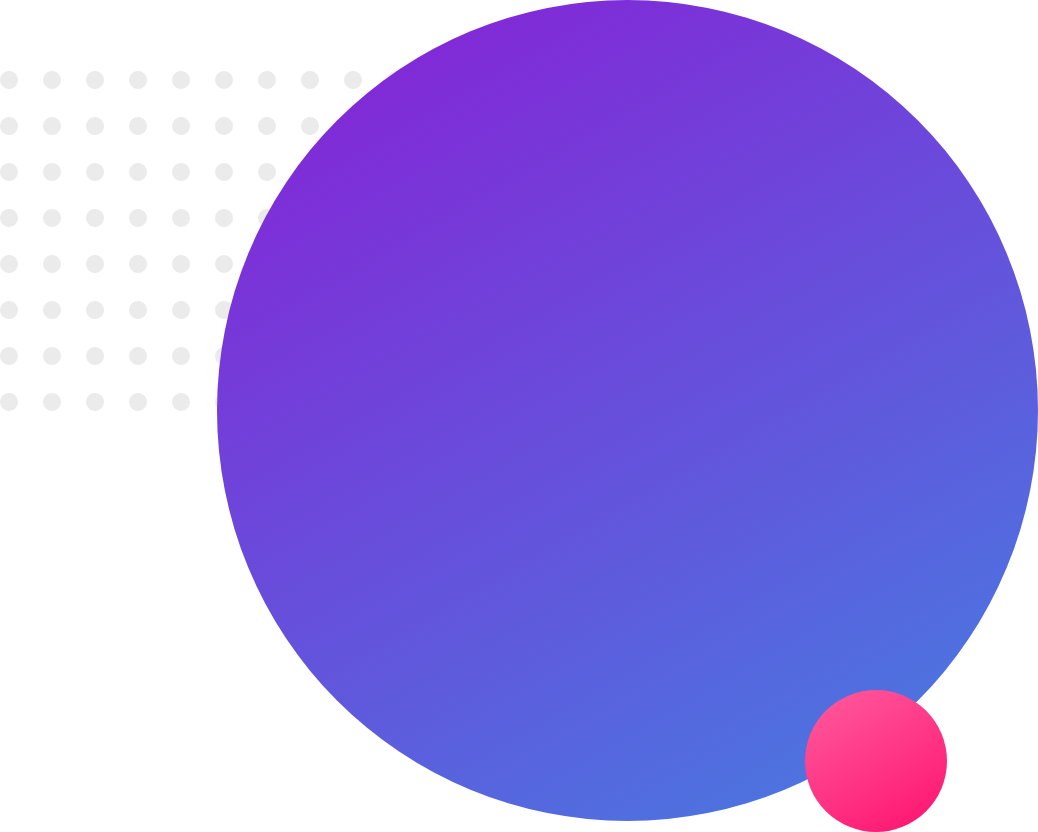
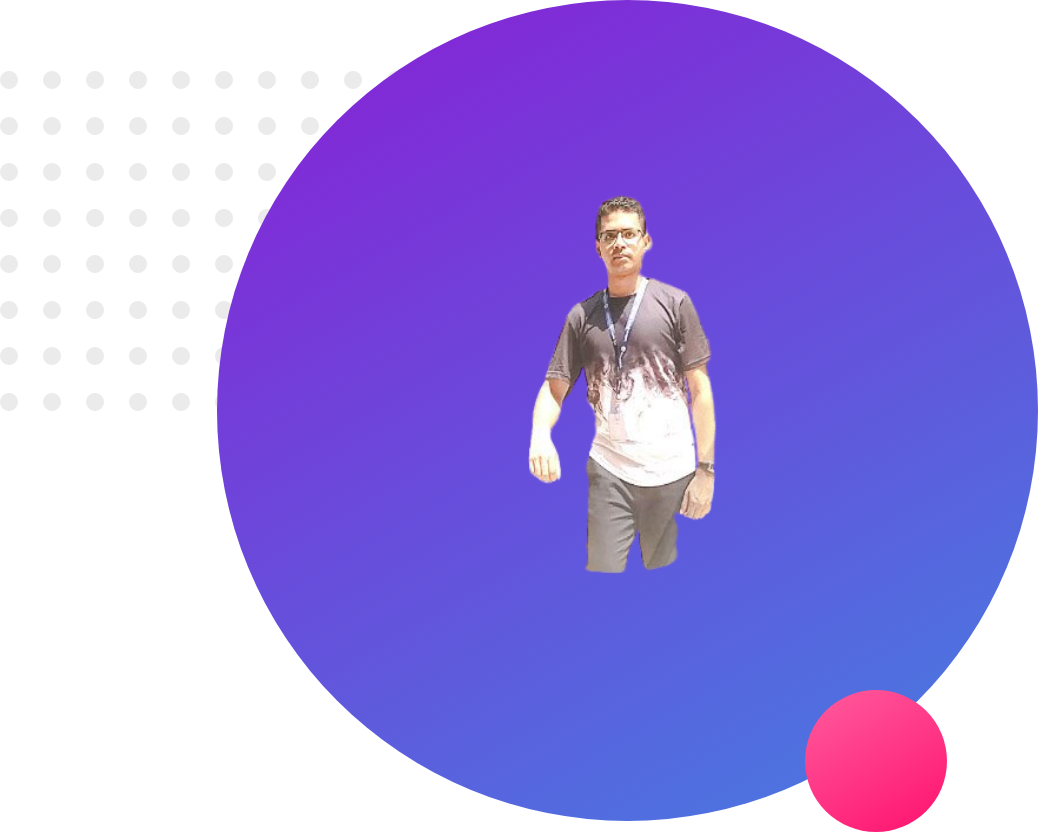
Finished my first ever website

Changed region(s): [[0.4933, 0.2188, 0.7091, 0.6875]]

diff --git a/index.html b/index.html
@@ -10,17 +10,51 @@
 <body>
 
 
-        <section>
+        <section class="top-banner">
             <div class="half-width">
                 <h1>Welcome To</h1> 
-                <h1><span class="name-highlight">Saimon</span> Website</h1>
+                <h1><span class="orange-highlight">Saimon</span> Website</h1>
                 <h3>World Class Professional Web Dev</h3>
                 <p>A few days ago suddenly a business idea came into my mind while I was going to my University.As   that  idea was about online business so I need a dynamic beautiful website.I can hire a professional developer for that but I think it would be better if I can make it myself as it will be rewarded as a professional skill in my work life.I will not stop until I become a professional web developer.</p>
+                <a class="link-button" target="_blank" href="https://www.facebook.com/profile.php?id=100036485331375">HIRE ME</a>
             </div>
             <div class="half-width"> 
                 <img src="images/profile1.png.png" alt=""> 
             </div>
-        </section>    
+        </section>   
+        <section class="dream-area">
+            <div class="half-width">
+                <img src="images/image 12.png" alt="">
+
+            </div>
+            <div class="half-width">
+                <h2>Big Dream</h2>
+                <h3>Become World's No 1 Developer</h3>
+                <p>I have already learnt basic html and css through which I can make multiple websites. Now my goal is to enhance my capability and be apt in javascript and python.It would be fantastic if I can make it.</p>
+                <a class="link-button" target=" _blank" href="https://www.facebook.com/profile.php?id=100036485331375">Visit My facebook</a>
+            
+
+            </div>
+            </section>
+            <section class="experience-area">
+                <h2>Experiences </h2>
+                <div class="half-width single-experience">
+                    <h2>Full Stack Web Dev</h2>
+            <div class="half-width">
+                <h3 class="orange-highlight">2021 - present | pro level Web Dev</h3>
+                    <p>I have mastery over HTML, CSS AND javascript. I know how to run a website more effectively and how to make it responsive. Currently I have also learnt most demandable framework "React" though which I can make a more effecient website</p>
+
+                </div>
+                <div class="half-width single-experience">
+                    <h2>Baby Web Developer</h2>
+                    <h3 class="orange-highlight">2020-2021 | Programming Hero Learner</h3>
+                    <p>Though they didn't offer me a job but I made myself as a remove web developer.I made their websites and showed it to them . They liked it and uploaded the content. It was fun working at Programming Hero.</p>
+
+                </div>
+
+            </section>
+            
+            
         </body>
         </html>
         

diff --git a/style.css b/style.css
@@ -1,10 +1,17 @@
  body{
+     margin: 0;
     font-family: 'Segoe UI', Tahoma, Geneva, Verdana, sans-serif;
  }
 h1{
     font-size: 50px;
-}      
-.name-highlight{
+}    
+h2{
+    font-size: 40px;
+}  
+p{
+    color: dimgray;
+}
+.orange-highlight{
     color: orange;
 }
 .half-width{
@@ -16,3 +23,28 @@ h1{
 .half-width img{
     width: 100%;
 }  
+.top-banner{
+    
+    background-image: url("images/dream-bg.png");
+    background-repeat: no-repeat;
+}
+section{
+    height: 500px;
+    padding-bottom: 150px;
+}
+.link-button{
+    text-decoration: none;
+    background-image: linear-gradient(45deg,lightSalmon, tomato);
+    padding: 10px 20px;
+    border-radius: 5px;
+    color: white;
+    font-weight: 700;
+}
+.dream-area{
+    background-image: url("images/dream-bg.png");
+    background-repeat: no-repeat;
+    background-position: right;
+}
+.single-experience{
+    box-shadow: 10px 10px 40px gray;
+}
